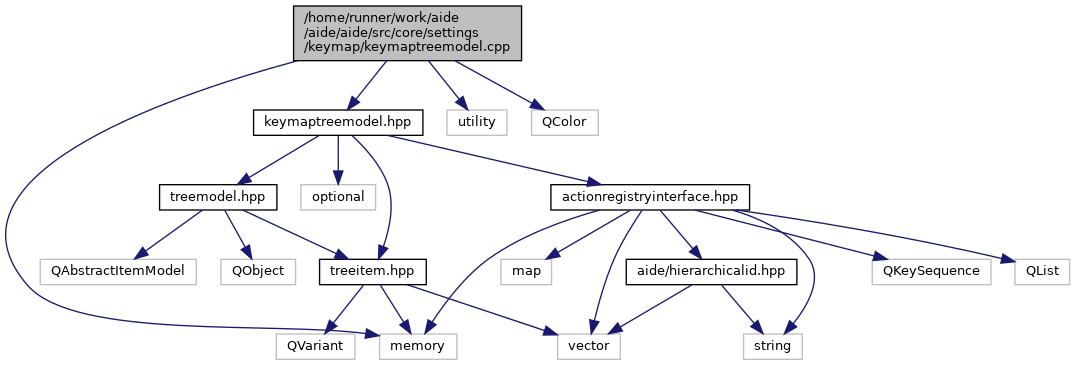
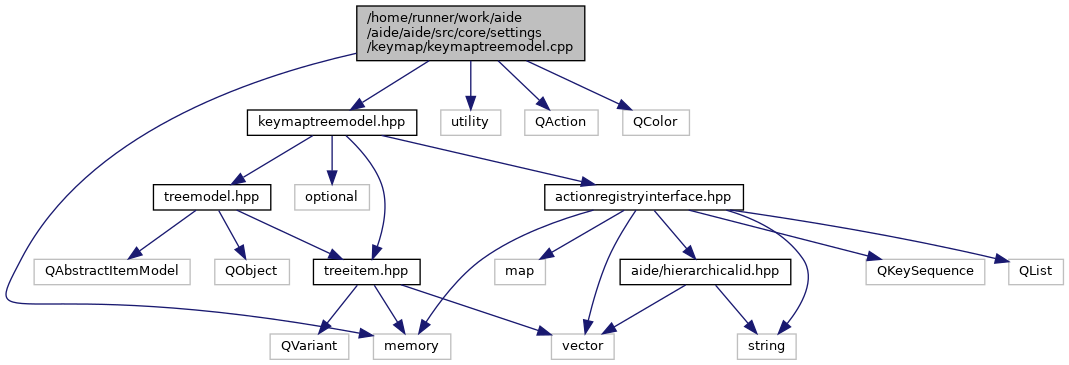
deploy: 0aedb614c590f80615555123abe08ed66272ec9f

diff --git a/keymaptreemodel_8hpp_source.html b/keymaptreemodel_8hpp_source.html
@@ -123,22 +123,22 @@ $(function() {
 </div><!-- fragment --></div><!-- contents -->
 <div class="ttc" id="atreemodel_8hpp_html"><div class="ttname"><a href="treemodel_8hpp.html">treemodel.hpp</a></div></div>
 <div class="ttc" id="atreeitem_8hpp_html"><div class="ttname"><a href="treeitem_8hpp.html">treeitem.hpp</a></div></div>
-<div class="ttc" id="aclassaide_1_1core_1_1KeyMapTreeModel_html_a7d0bd69185fe5a189baf34f8cf40e71f"><div class="ttname"><a href="classaide_1_1core_1_1KeyMapTreeModel.html#a7d0bd69185fe5a189baf34f8cf40e71f">aide::core::KeyMapTreeModel::findItemForActionId</a></div><div class="ttdeci">std::optional&lt; TreeItemPtr &gt; findItemForActionId(HierarchicalId id)</div><div class="ttdef"><b>Definition:</b> keymaptreemodel.cpp:151</div></div>
+<div class="ttc" id="aclassaide_1_1core_1_1KeyMapTreeModel_html_a7d0bd69185fe5a189baf34f8cf40e71f"><div class="ttname"><a href="classaide_1_1core_1_1KeyMapTreeModel.html#a7d0bd69185fe5a189baf34f8cf40e71f">aide::core::KeyMapTreeModel::findItemForActionId</a></div><div class="ttdeci">std::optional&lt; TreeItemPtr &gt; findItemForActionId(HierarchicalId id)</div><div class="ttdef"><b>Definition:</b> keymaptreemodel.cpp:160</div></div>
 <div class="ttc" id="akeymaptreemodel_8hpp_html"><div class="ttname"><a href="keymaptreemodel_8hpp.html">keymaptreemodel.hpp</a></div></div>
-<div class="ttc" id="aclassaide_1_1core_1_1KeyMapTreeModel_html_afd59aec07e960e0b775a3f0a33e19b91"><div class="ttname"><a href="classaide_1_1core_1_1KeyMapTreeModel.html#afd59aec07e960e0b775a3f0a33e19b91">aide::core::KeyMapTreeModel::headerData</a></div><div class="ttdeci">QVariant headerData(int section, Qt::Orientation orientation, int role) const override</div><div class="ttdef"><b>Definition:</b> keymaptreemodel.cpp:77</div></div>
+<div class="ttc" id="aclassaide_1_1core_1_1KeyMapTreeModel_html_afd59aec07e960e0b775a3f0a33e19b91"><div class="ttname"><a href="classaide_1_1core_1_1KeyMapTreeModel.html#afd59aec07e960e0b775a3f0a33e19b91">aide::core::KeyMapTreeModel::headerData</a></div><div class="ttdeci">QVariant headerData(int section, Qt::Orientation orientation, int role) const override</div><div class="ttdef"><b>Definition:</b> keymaptreemodel.cpp:78</div></div>
 <div class="ttc" id="astructaide_1_1Action_html"><div class="ttname"><a href="structaide_1_1Action.html">aide::Action</a></div><div class="ttdef"><b>Definition:</b> actionregistryinterface.hpp:22</div></div>
-<div class="ttc" id="aclassaide_1_1core_1_1KeyMapTreeModel_html_a3ec55e0fbe816093573676385cd2883e"><div class="ttname"><a href="classaide_1_1core_1_1KeyMapTreeModel.html#a3ec55e0fbe816093573676385cd2883e">aide::core::KeyMapTreeModel::setData</a></div><div class="ttdeci">bool setData(const QModelIndex &amp;index, const QVariant &amp;value, int role) override</div><div class="ttdef"><b>Definition:</b> keymaptreemodel.cpp:115</div></div>
+<div class="ttc" id="aclassaide_1_1core_1_1KeyMapTreeModel_html_a3ec55e0fbe816093573676385cd2883e"><div class="ttname"><a href="classaide_1_1core_1_1KeyMapTreeModel.html#a3ec55e0fbe816093573676385cd2883e">aide::core::KeyMapTreeModel::setData</a></div><div class="ttdeci">bool setData(const QModelIndex &amp;index, const QVariant &amp;value, int role) override</div><div class="ttdef"><b>Definition:</b> keymaptreemodel.cpp:124</div></div>
 <div class="ttc" id="aclassaide_1_1core_1_1TreeModel_html_a078980b51d932639f85aea685ddd51d5"><div class="ttname"><a href="classaide_1_1core_1_1TreeModel.html#a078980b51d932639f85aea685ddd51d5">aide::core::TreeModel::headerData</a></div><div class="ttdeci">QVariant headerData(int section, Qt::Orientation orientation, int role) const override</div><div class="ttdef"><b>Definition:</b> treemodel.cpp:30</div></div>
 <div class="ttc" id="aclassaide_1_1core_1_1TreeItem_html_a2de620aaafa8e9c28b287b24517299ea"><div class="ttname"><a href="classaide_1_1core_1_1TreeItem.html#a2de620aaafa8e9c28b287b24517299ea">aide::core::TreeItem::getHiddenUserData</a></div><div class="ttdeci">QVariant getHiddenUserData() const</div><div class="ttdef"><b>Definition:</b> treeitem.cpp:23</div></div>
-<div class="ttc" id="aclassaide_1_1core_1_1KeyMapTreeModel_html_ab7a8793f7868eca62f120f1e9f779dcb"><div class="ttname"><a href="classaide_1_1core_1_1KeyMapTreeModel.html#ab7a8793f7868eca62f120f1e9f779dcb">aide::core::KeyMapTreeModel::data</a></div><div class="ttdeci">QVariant data(const QModelIndex &amp;index, int role) const override</div><div class="ttdef"><b>Definition:</b> keymaptreemodel.cpp:87</div></div>
+<div class="ttc" id="aclassaide_1_1core_1_1KeyMapTreeModel_html_ab7a8793f7868eca62f120f1e9f779dcb"><div class="ttname"><a href="classaide_1_1core_1_1KeyMapTreeModel.html#ab7a8793f7868eca62f120f1e9f779dcb">aide::core::KeyMapTreeModel::data</a></div><div class="ttdeci">QVariant data(const QModelIndex &amp;index, int role) const override</div><div class="ttdef"><b>Definition:</b> keymaptreemodel.cpp:88</div></div>
 <div class="ttc" id="aclassaide_1_1core_1_1TreeModel_html_a0da9ba8aba094977fddca83683c15fe6"><div class="ttname"><a href="classaide_1_1core_1_1TreeModel.html#a0da9ba8aba094977fddca83683c15fe6">aide::core::TreeModel::rootItem</a></div><div class="ttdeci">TreeItemPtr rootItem</div><div class="ttdef"><b>Definition:</b> treemodel.hpp:36</div></div>
 <div class="ttc" id="aclassaide_1_1core_1_1TreeModel_html"><div class="ttname"><a href="classaide_1_1core_1_1TreeModel.html">aide::core::TreeModel</a></div><div class="ttdef"><b>Definition:</b> treemodel.hpp:12</div></div>
 <div class="ttc" id="anamespaceaide_html_a720ef0c950881fba3ebd2f30c30dad35"><div class="ttname"><a href="namespaceaide.html#a720ef0c950881fba3ebd2f30c30dad35">aide::ActionRegistryInterfacePtr</a></div><div class="ttdeci">std::shared_ptr&lt; ActionRegistryInterface &gt; ActionRegistryInterfacePtr</div><div class="ttdef"><b>Definition:</b> actionregistryinterface.hpp:73</div></div>
-<div class="ttc" id="aclassaide_1_1core_1_1KeyMapTreeModel_html_a6e2fff00bad4488f3658d5c1a0d9c68c"><div class="ttname"><a href="classaide_1_1core_1_1KeyMapTreeModel.html#a6e2fff00bad4488f3658d5c1a0d9c68c">aide::core::KeyMapTreeModel::setupModelData</a></div><div class="ttdeci">void setupModelData()</div><div class="ttdef"><b>Definition:</b> keymaptreemodel.cpp:22</div></div>
-<div class="ttc" id="aclassaide_1_1core_1_1KeyMapTreeModel_html_a103d564376b170968ffa8396b2180522"><div class="ttname"><a href="classaide_1_1core_1_1KeyMapTreeModel.html#a103d564376b170968ffa8396b2180522">aide::core::KeyMapTreeModel::findCorrespondingAction</a></div><div class="ttdeci">std::optional&lt; Action &gt; findCorrespondingAction(const QModelIndex &amp;selectedIndex) const</div><div class="ttdef"><b>Definition:</b> keymaptreemodel.cpp:131</div></div>
+<div class="ttc" id="aclassaide_1_1core_1_1KeyMapTreeModel_html_a6e2fff00bad4488f3658d5c1a0d9c68c"><div class="ttname"><a href="classaide_1_1core_1_1KeyMapTreeModel.html#a6e2fff00bad4488f3658d5c1a0d9c68c">aide::core::KeyMapTreeModel::setupModelData</a></div><div class="ttdeci">void setupModelData()</div><div class="ttdef"><b>Definition:</b> keymaptreemodel.cpp:23</div></div>
+<div class="ttc" id="aclassaide_1_1core_1_1KeyMapTreeModel_html_a103d564376b170968ffa8396b2180522"><div class="ttname"><a href="classaide_1_1core_1_1KeyMapTreeModel.html#a103d564376b170968ffa8396b2180522">aide::core::KeyMapTreeModel::findCorrespondingAction</a></div><div class="ttdeci">std::optional&lt; Action &gt; findCorrespondingAction(const QModelIndex &amp;selectedIndex) const</div><div class="ttdef"><b>Definition:</b> keymaptreemodel.cpp:140</div></div>
 <div class="ttc" id="aclassaide_1_1core_1_1TreeItem_html"><div class="ttname"><a href="classaide_1_1core_1_1TreeItem.html">aide::core::TreeItem</a></div><div class="ttdef"><b>Definition:</b> treeitem.hpp:15</div></div>
 <div class="ttc" id="aclassaide_1_1core_1_1KeyMapTreeModel_html"><div class="ttname"><a href="classaide_1_1core_1_1KeyMapTreeModel.html">aide::core::KeyMapTreeModel</a></div><div class="ttdef"><b>Definition:</b> keymaptreemodel.hpp:12</div></div>
-<div class="ttc" id="aclassaide_1_1core_1_1KeyMapTreeModel_html_acbb8227098ac1e9f2e15ad24035f15b4"><div class="ttname"><a href="classaide_1_1core_1_1KeyMapTreeModel.html#acbb8227098ac1e9f2e15ad24035f15b4">aide::core::KeyMapTreeModel::KeyMapTreeModel</a></div><div class="ttdeci">KeyMapTreeModel(ActionRegistryInterfacePtr registry, QObject *parent=nullptr)</div><div class="ttdef"><b>Definition:</b> keymaptreemodel.cpp:13</div></div>
+<div class="ttc" id="aclassaide_1_1core_1_1KeyMapTreeModel_html_acbb8227098ac1e9f2e15ad24035f15b4"><div class="ttname"><a href="classaide_1_1core_1_1KeyMapTreeModel.html#acbb8227098ac1e9f2e15ad24035f15b4">aide::core::KeyMapTreeModel::KeyMapTreeModel</a></div><div class="ttdeci">KeyMapTreeModel(ActionRegistryInterfacePtr registry, QObject *parent=nullptr)</div><div class="ttdef"><b>Definition:</b> keymaptreemodel.cpp:14</div></div>
 <div class="ttc" id="anamespaceaide_1_1core_html_a8a386d1ad0636f11137ca1824de27747"><div class="ttname"><a href="namespaceaide_1_1core.html#a8a386d1ad0636f11137ca1824de27747">aide::core::TreeItemPtr</a></div><div class="ttdeci">std::shared_ptr&lt; TreeItem &gt; TreeItemPtr</div><div class="ttdef"><b>Definition:</b> treeitem.hpp:13</div></div>
 <div class="ttc" id="aactionregistryinterface_8hpp_html"><div class="ttname"><a href="actionregistryinterface_8hpp.html">actionregistryinterface.hpp</a></div></div>
 <div class="ttc" id="aclassaide_1_1core_1_1TreeItem_html_a96dce16fe3f78f82c0f56b9a3ee135e9"><div class="ttname"><a href="classaide_1_1core_1_1TreeItem.html#a96dce16fe3f78f82c0f56b9a3ee135e9">aide::core::TreeItem::data</a></div><div class="ttdeci">QVariant data(size_t column) const</div><div class="ttdef"><b>Definition:</b> treeitem.cpp:44</div></div>

diff --git a/keymaptreemodel_8cpp.html b/keymaptreemodel_8cpp.html
@@ -73,30 +73,32 @@ $(function() {
 <div class="textblock"><code>#include &quot;<a class="el" href="keymaptreemodel_8hpp_source.html">keymaptreemodel.hpp</a>&quot;</code><br />
 <code>#include &lt;memory&gt;</code><br />
 <code>#include &lt;utility&gt;</code><br />
+<code>#include &lt;QAction&gt;</code><br />
 <code>#include &lt;QColor&gt;</code><br />
 </div><div class="textblock"><div class="dynheader">
 Include dependency graph for keymaptreemodel.cpp:</div>
 <div class="dyncontent">
 <div class="center"><img src="keymaptreemodel_8cpp__incl.png" border="0" usemap="#_2home_2runner_2work_2aide_2aide_2aide_2src_2core_2settings_2keymap_2keymaptreemodel_8cpp" alt=""/></div>
 <map name="_2home_2runner_2work_2aide_2aide_2aide_2src_2core_2settings_2keymap_2keymaptreemodel_8cpp" id="_2home_2runner_2work_2aide_2aide_2aide_2src_2core_2settings_2keymap_2keymaptreemodel_8cpp">
-<area shape="rect" title=" " alt="" coords="294,5,522,61"/>
-<area shape="rect" href="keymaptreemodel_8hpp.html" title=" " alt="" coords="254,109,423,136"/>
-<area shape="rect" title=" " alt="" coords="380,333,457,360"/>
-<area shape="rect" title=" " alt="" coords="447,109,507,136"/>
-<area shape="rect" title=" " alt="" coords="532,109,598,136"/>
-<area shape="rect" href="actionregistryinterface_8hpp.html" title=" " alt="" coords="551,184,750,211"/>
-<area shape="rect" title=" " alt="" coords="301,184,376,211"/>
-<area shape="rect" href="treeitem_8hpp.html" title=" " alt="" coords="320,259,426,285"/>
-<area shape="rect" href="treemodel_8hpp.html" title=" " alt="" coords="160,184,277,211"/>
-<area shape="rect" title=" " alt="" coords="501,259,552,285"/>
-<area shape="rect" title=" " alt="" coords="744,333,802,360"/>
-<area shape="rect" title=" " alt="" coords="558,333,620,360"/>
-<area shape="rect" title=" " alt="" coords="872,259,991,285"/>
-<area shape="rect" title=" " alt="" coords="1015,259,1070,285"/>
-<area shape="rect" href="hierarchicalid_8hpp.html" title=" " alt="" coords="626,259,797,285"/>
-<area shape="rect" title=" " alt="" coords="276,333,355,360"/>
-<area shape="rect" title=" " alt="" coords="40,259,196,285"/>
-<area shape="rect" title=" " alt="" coords="221,259,296,285"/>
+<area shape="rect" title=" " alt="" coords="357,5,585,61"/>
+<area shape="rect" href="keymaptreemodel_8hpp.html" title=" " alt="" coords="247,109,417,136"/>
+<area shape="rect" title=" " alt="" coords="373,333,451,360"/>
+<area shape="rect" title=" " alt="" coords="441,109,501,136"/>
+<area shape="rect" title=" " alt="" coords="525,109,598,136"/>
+<area shape="rect" title=" " alt="" coords="623,109,689,136"/>
+<area shape="rect" href="actionregistryinterface_8hpp.html" title=" " alt="" coords="545,184,743,211"/>
+<area shape="rect" title=" " alt="" coords="295,184,369,211"/>
+<area shape="rect" href="treeitem_8hpp.html" title=" " alt="" coords="313,259,420,285"/>
+<area shape="rect" href="treemodel_8hpp.html" title=" " alt="" coords="153,184,271,211"/>
+<area shape="rect" title=" " alt="" coords="495,259,545,285"/>
+<area shape="rect" title=" " alt="" coords="737,333,796,360"/>
+<area shape="rect" title=" " alt="" coords="551,333,614,360"/>
+<area shape="rect" title=" " alt="" coords="866,259,985,285"/>
+<area shape="rect" title=" " alt="" coords="1009,259,1063,285"/>
+<area shape="rect" href="hierarchicalid_8hpp.html" title=" " alt="" coords="620,259,791,285"/>
+<area shape="rect" title=" " alt="" coords="270,333,349,360"/>
+<area shape="rect" title=" " alt="" coords="34,259,190,285"/>
+<area shape="rect" title=" " alt="" coords="215,259,289,285"/>
 </map>
 </div>
 </div></div><!-- contents -->

diff --git a/keymapcontextmenuprovider_8hpp_source.html b/keymapcontextmenuprovider_8hpp_source.html
@@ -109,7 +109,7 @@ $(function() {
 <div class="ttc" id="anamespaceaide_1_1core_html_aa6a5c117192574f6ededf42714fb59dbaebac92f36c51ceab4e848923c428c940"><div class="ttname"><a href="namespaceaide_1_1core.html#aa6a5c117192574f6ededf42714fb59dbaebac92f36c51ceab4e848923c428c940">aide::core::ContextMenuItemType::RESET_TO_DEFAULTS</a></div><div class="ttdeci">@ RESET_TO_DEFAULTS</div></div>
 <div class="ttc" id="akeymapcontextmenuprovider_8hpp_html"><div class="ttname"><a href="keymapcontextmenuprovider_8hpp.html">keymapcontextmenuprovider.hpp</a></div></div>
 <div class="ttc" id="aclassaide_1_1core_1_1KeymapContextMenuProvider_html"><div class="ttname"><a href="classaide_1_1core_1_1KeymapContextMenuProvider.html">aide::core::KeymapContextMenuProvider</a></div><div class="ttdef"><b>Definition:</b> keymapcontextmenuprovider.hpp:14</div></div>
-<div class="ttc" id="aclassaide_1_1core_1_1KeyMapTreeModel_html_a103d564376b170968ffa8396b2180522"><div class="ttname"><a href="classaide_1_1core_1_1KeyMapTreeModel.html#a103d564376b170968ffa8396b2180522">aide::core::KeyMapTreeModel::findCorrespondingAction</a></div><div class="ttdeci">std::optional&lt; Action &gt; findCorrespondingAction(const QModelIndex &amp;selectedIndex) const</div><div class="ttdef"><b>Definition:</b> keymaptreemodel.cpp:131</div></div>
+<div class="ttc" id="aclassaide_1_1core_1_1KeyMapTreeModel_html_a103d564376b170968ffa8396b2180522"><div class="ttname"><a href="classaide_1_1core_1_1KeyMapTreeModel.html#a103d564376b170968ffa8396b2180522">aide::core::KeyMapTreeModel::findCorrespondingAction</a></div><div class="ttdeci">std::optional&lt; Action &gt; findCorrespondingAction(const QModelIndex &amp;selectedIndex) const</div><div class="ttdef"><b>Definition:</b> keymaptreemodel.cpp:140</div></div>
 <div class="ttc" id="anamespaceaide_1_1core_html_a203ff356403034fba5ce7c874f959447"><div class="ttname"><a href="namespaceaide_1_1core.html#a203ff356403034fba5ce7c874f959447">aide::core::KeyMapPageWidgetRawPtr</a></div><div class="ttdeci">KeyMapPageWidgetInterface * KeyMapPageWidgetRawPtr</div><div class="ttdef"><b>Definition:</b> keymappagewidgetinterface.hpp:43</div></div>
 <div class="ttc" id="aclassaide_1_1core_1_1TreeItem_html"><div class="ttname"><a href="classaide_1_1core_1_1TreeItem.html">aide::core::TreeItem</a></div><div class="ttdef"><b>Definition:</b> treeitem.hpp:15</div></div>
 <div class="ttc" id="aclassaide_1_1core_1_1KeyMapTreeModel_html"><div class="ttname"><a href="classaide_1_1core_1_1KeyMapTreeModel.html">aide::core::KeyMapTreeModel</a></div><div class="ttdef"><b>Definition:</b> keymaptreemodel.hpp:12</div></div>
